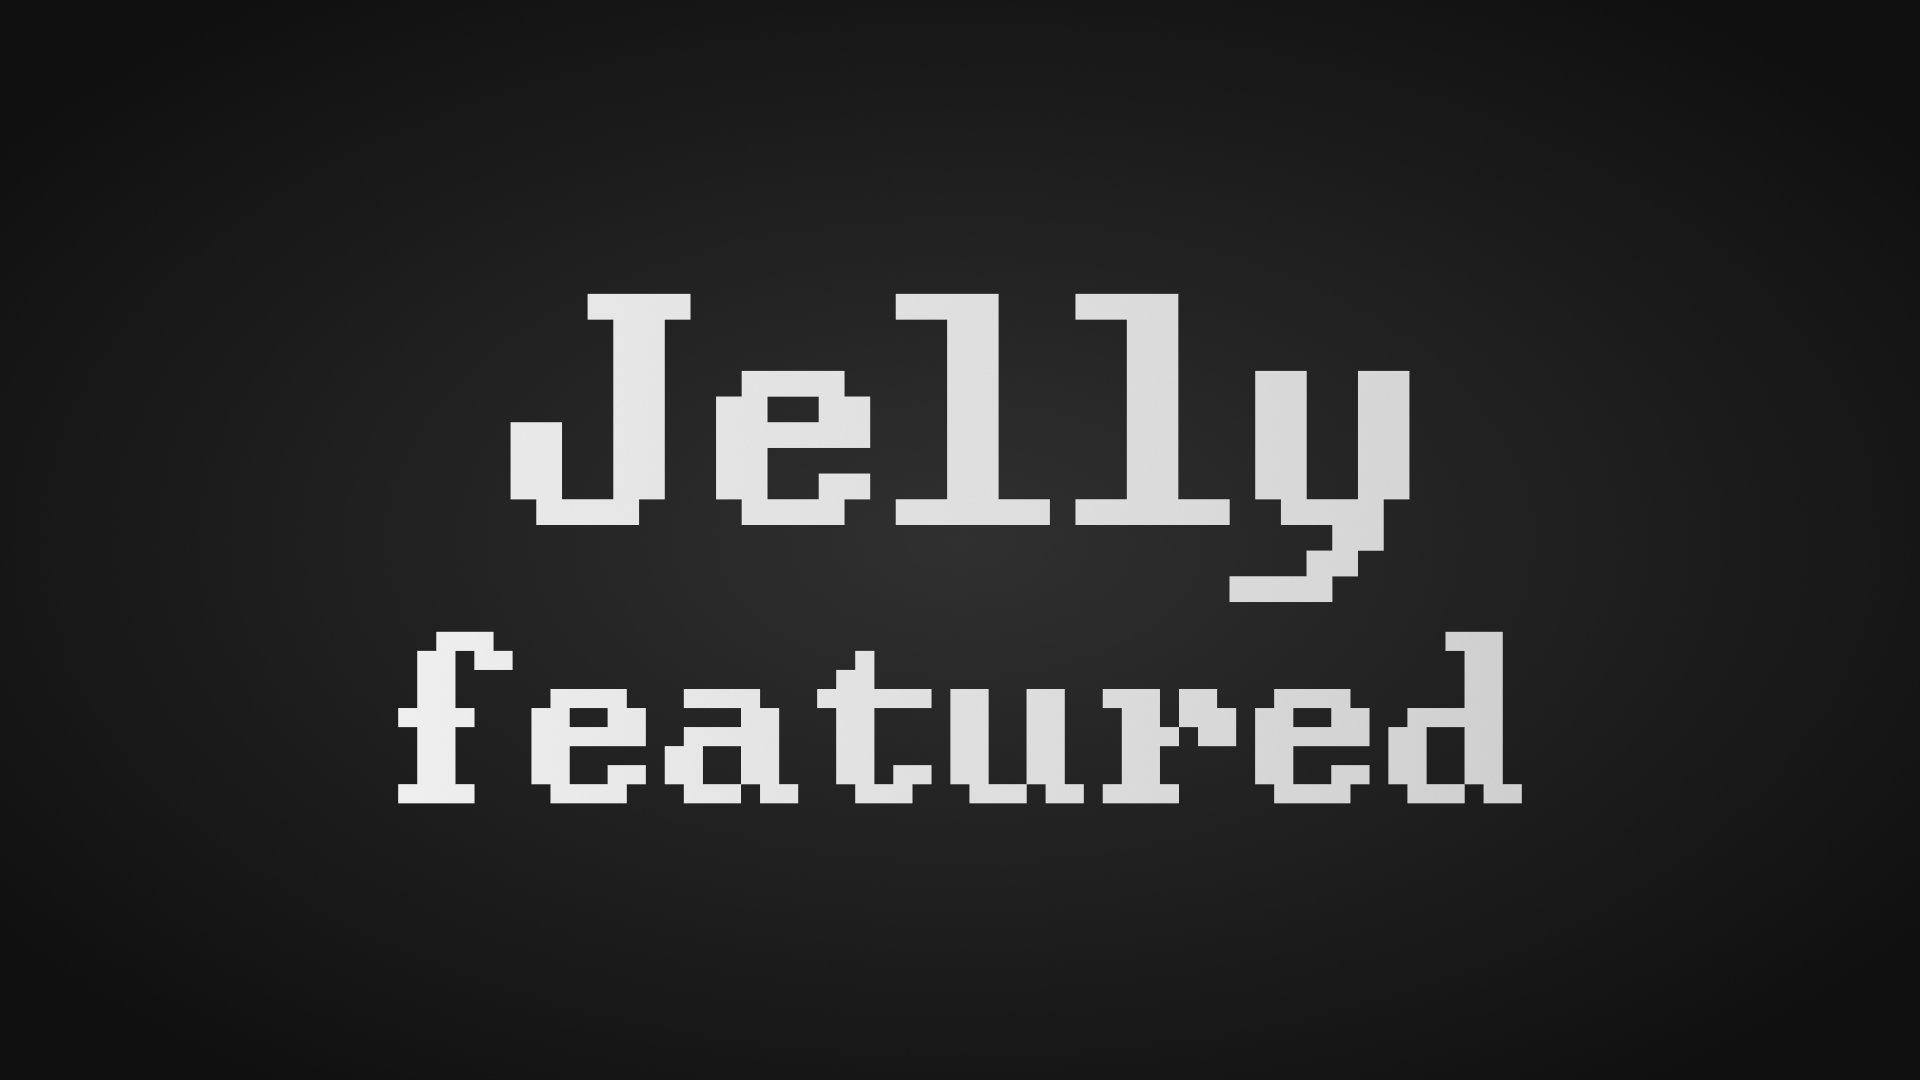
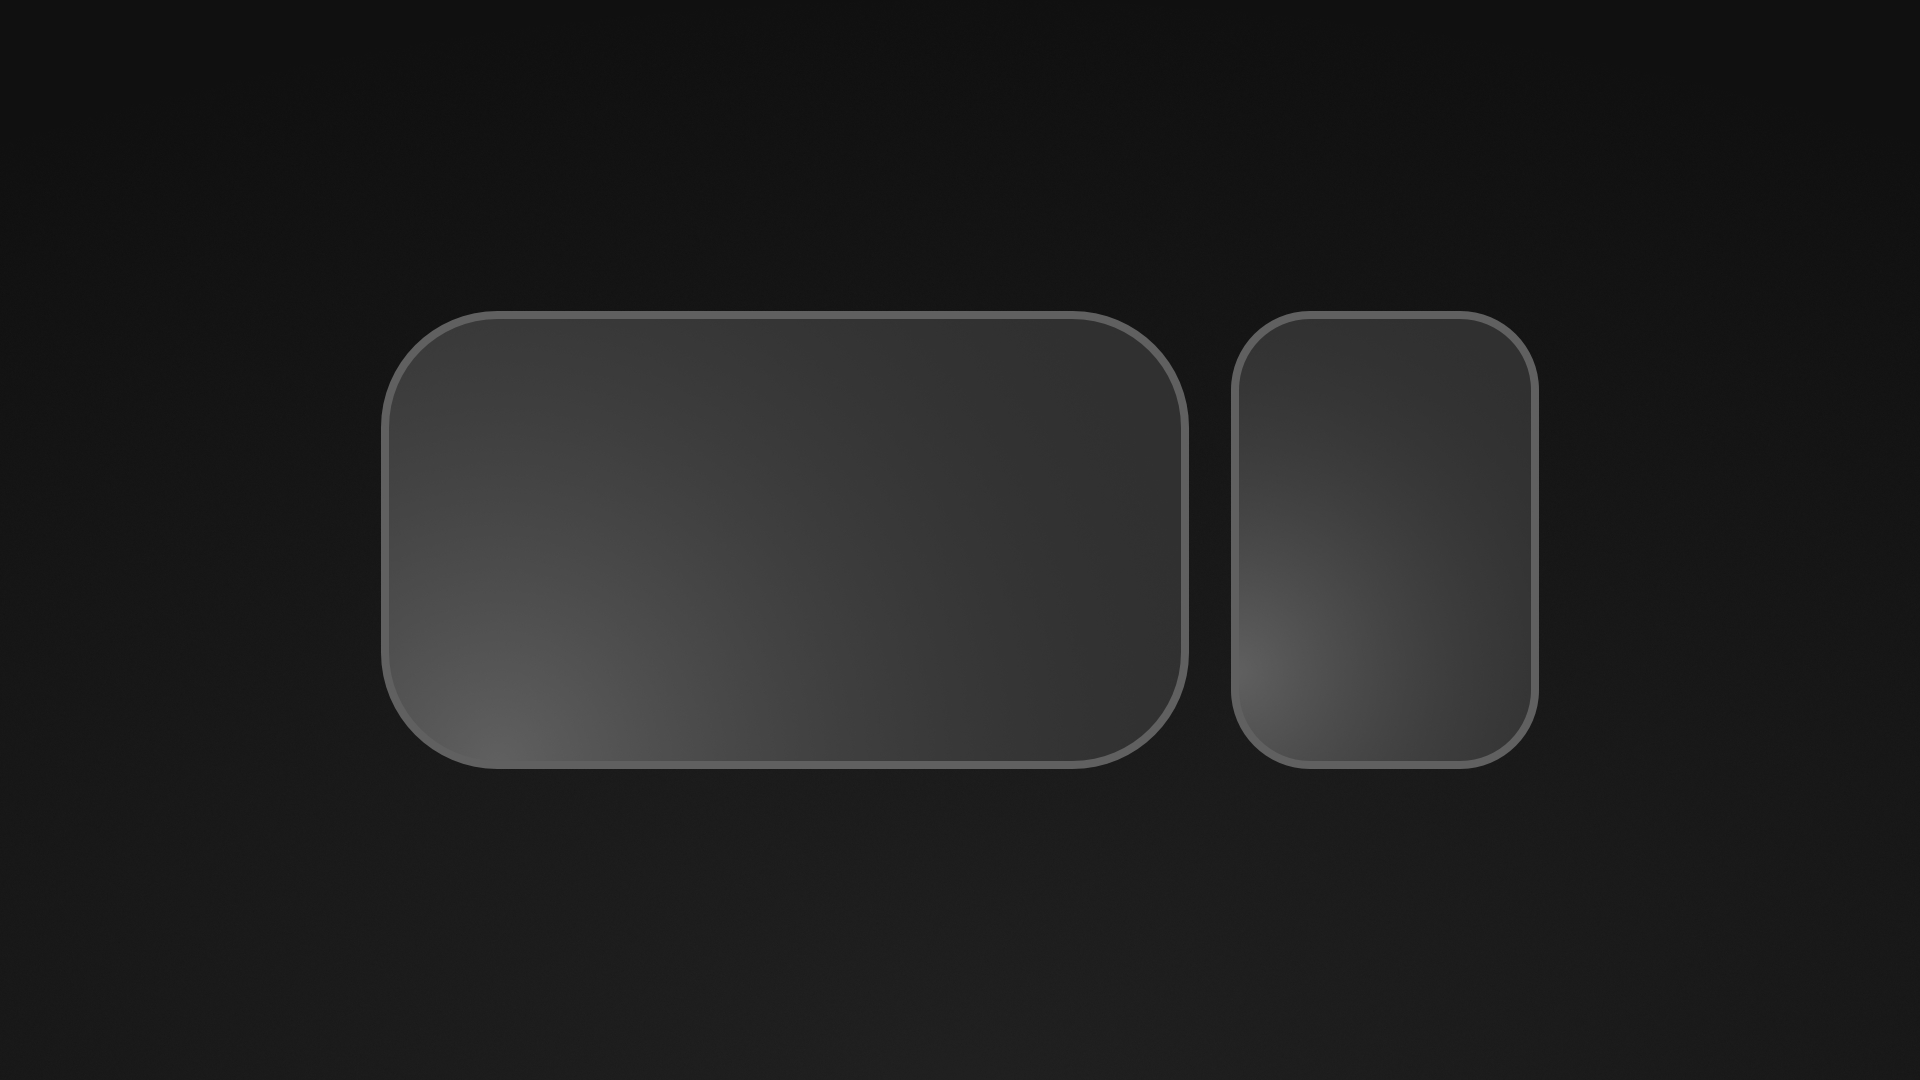
Updated thumbnail; Removed interaction block

Changed region(s): [[0.1875, 0.2444, 0.8125, 0.7639], [0.6562, 0.275, 0.7812, 0.3056]]

diff --git a/main.js b/main.js
@@ -500,25 +500,8 @@ const htmlTemplate = `{{HTML_TEMPLATE}}`;
         document.body.dataset.jellyfeaturedInserting = 'true';
 
         try {
-            // Add a blocking overlay so users can't interact with the page
-            // while the featured carousel is being created and injected.
-            try {
-                const blocker = document.createElement('div');
-                blocker.id = 'jellyfeatured_blocker';
-                blocker.setAttribute('aria-hidden', 'true');
-                blocker.setAttribute('role', 'presentation');
-                Object.assign(blocker.style, {
-                    position: 'fixed',
-                    inset: '0',
-                    zIndex: '2147483646',
-                    background: 'transparent',
-                    cursor: 'wait',
-                    touchAction: 'none'
-                });
-                document.body.appendChild(blocker);
-            } catch (e) {
-                // ignore overlay failures
-            }
+            // Do not add a full-page blocking overlay; allow users to interact
+            // with the page while the featured carousel loads in the background.
 
             const tempDiv = document.createElement('div');
             tempDiv.innerHTML = htmlTemplate;
@@ -727,15 +710,10 @@ const htmlTemplate = `{{HTML_TEMPLATE}}`;
                 
                 targetContainer.insertBefore(featuredDiv, targetContainer.firstChild);
 
-                // Remove the blocking overlay now that the featured content is inserted
-                try {
-                    const bl = document.getElementById('jellyfeatured_blocker');
-                    if (bl) bl.remove();
-                } catch (e) {}
+                // No full-page overlay used; nothing to remove here.
             }
         } finally {
             try { delete document.body.dataset.jellyfeaturedInserting; } catch (e) { document.body.removeAttribute('data-jellyfeatured-inserting'); }
-            try { const bl = document.getElementById('jellyfeatured_blocker'); if (bl) bl.remove(); } catch (e) {}
         }
     }
 
